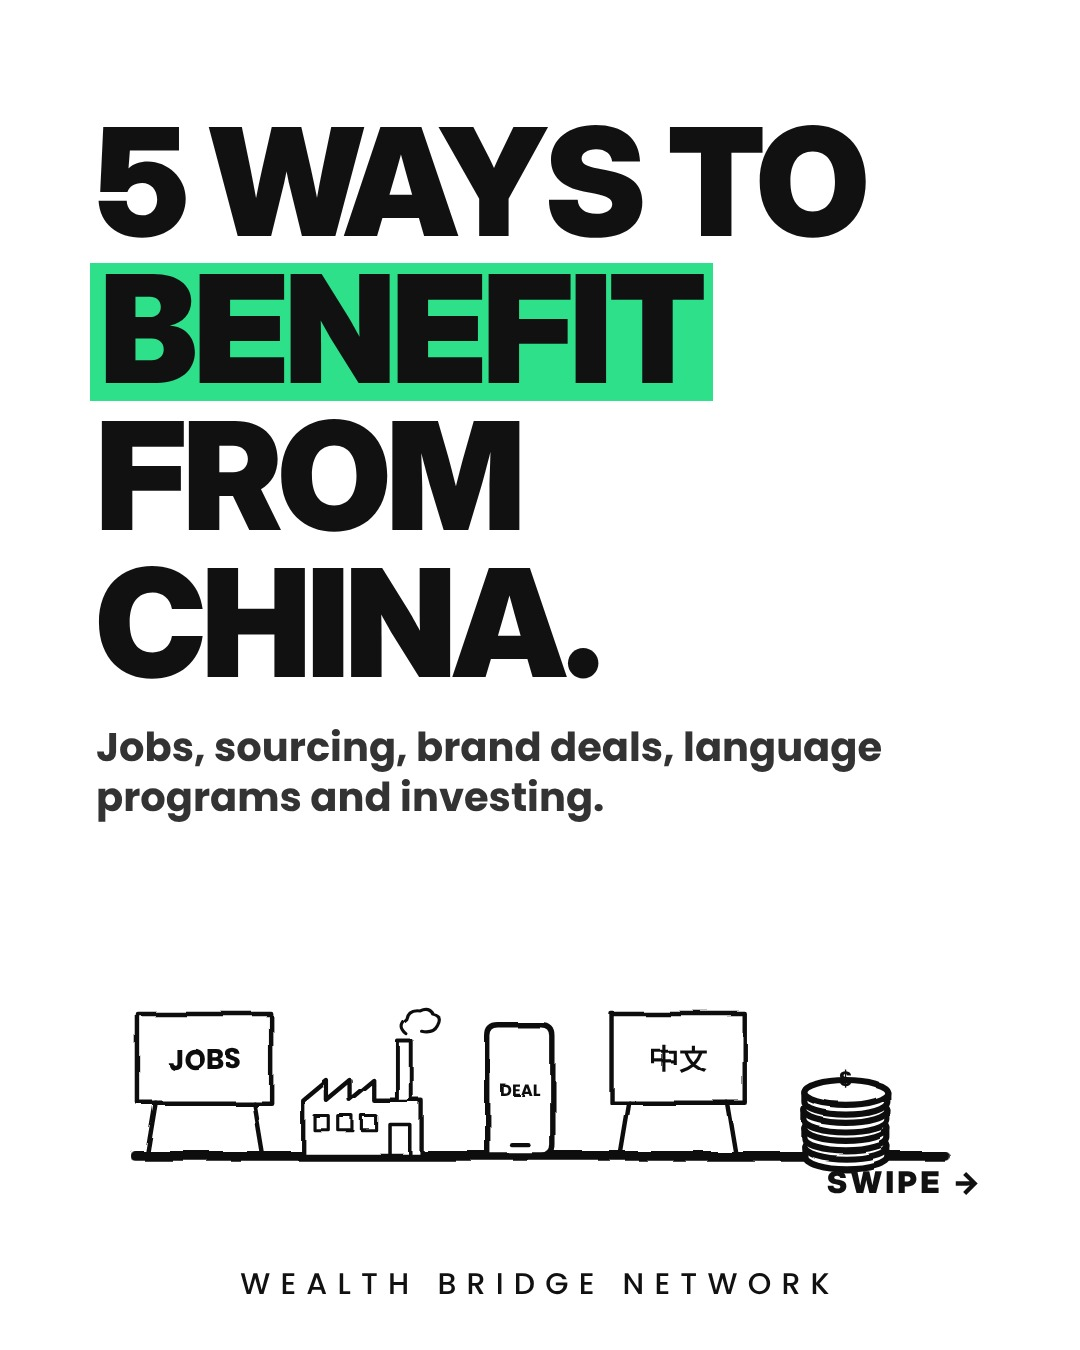
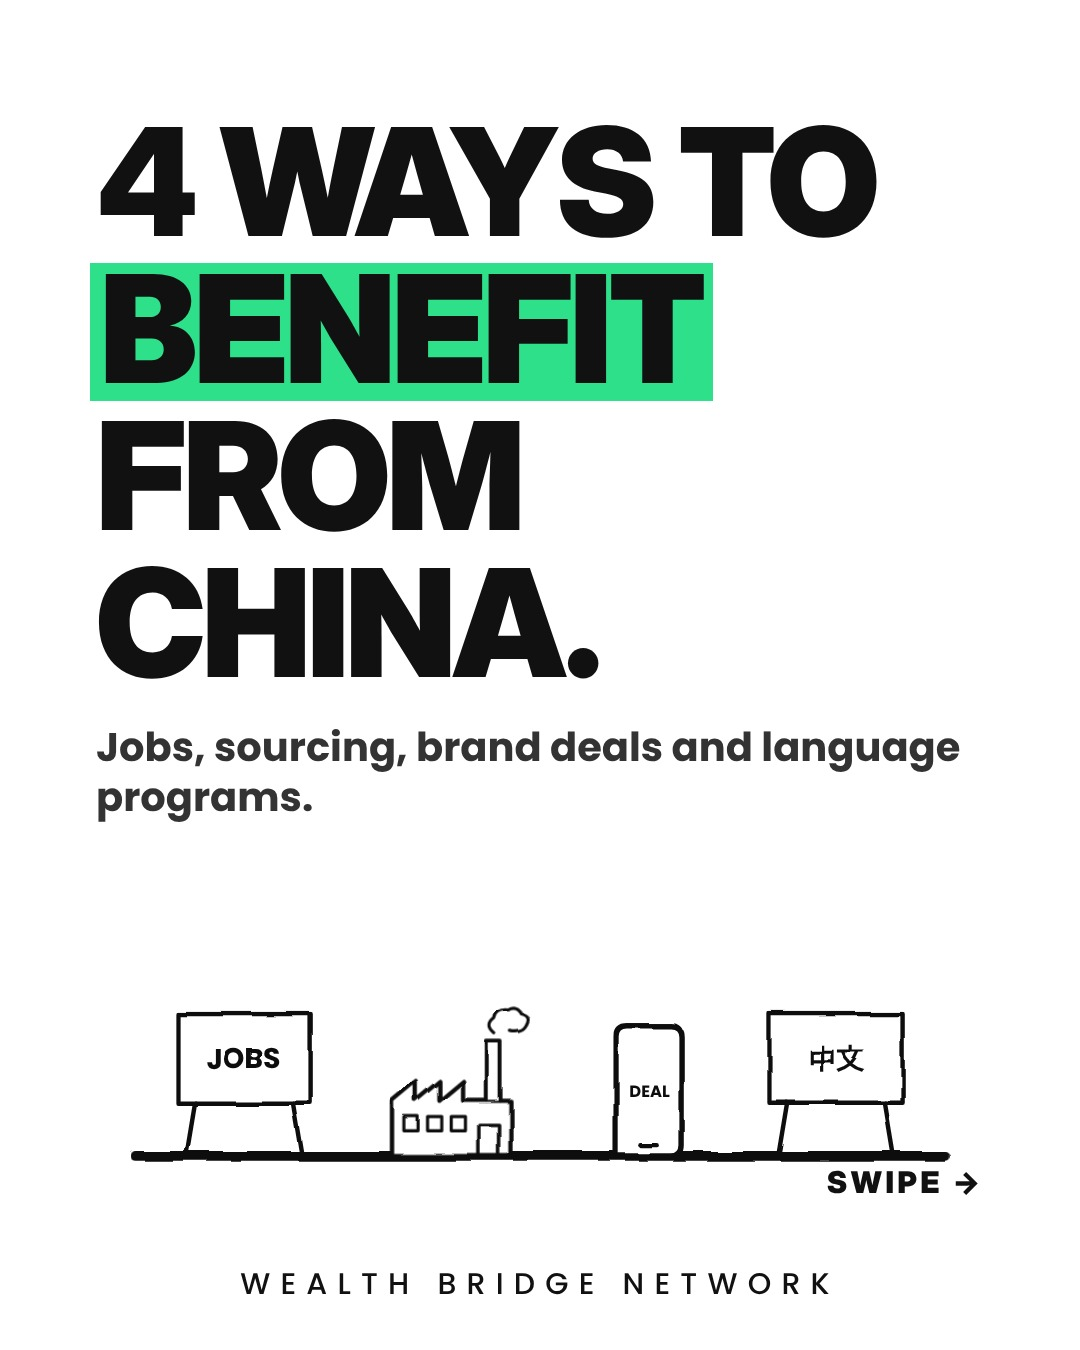
48-five-ways: remove Investing, now 4 ways (6 slides)
Claude-Session: https://claude.ai/code/session_01XWHiAw1FC92SEhPtnn4Xv2

diff --git a/content/five_ways.py b/content/five_ways.py
@@ -35,13 +35,13 @@ def topic(n, name, cells, src=""):
 
 
 POSTS = [
-dict(id="48-five-ways", pillar="Opportunities", title="5 ways to benefit from China",
+dict(id="48-five-ways", pillar="Opportunities", title="4 ways to benefit from China",
  caption="Building Bridges | Creating Access",
  slides=[
- dict(hook="5 ways to\n*benefit*\nfrom China.", hs=150, swipe=True,
-      kick="Jobs, sourcing, brand deals, language programs and investing.",
-      scene=ground(40, 860, 300) + board(110, 300, 0.45, "JOBS") + factory(270, 300, 0.4) + phone(430, 300, 0.55, "DEAL")
-      + board(590, 300, 0.45, "中文") + coins(760, 300, 0.7, 4), vh=320),
+ dict(hook="4 ways to\n*benefit*\nfrom China.", hs=150, swipe=True,
+      kick="Jobs, sourcing, brand deals and language programs.",
+      scene=ground(40, 860, 300) + board(150, 300, 0.45, "JOBS") + factory(360, 300, 0.4) + phone(560, 300, 0.55, "DEAL")
+      + board(750, 300, 0.45, "中文"), vh=320),
  topic(1, "Jobs", [
    (lambda x, y: board(x, y, 0.5, "TEFL"), "Teaching", ["Up to 35K+ RMB/mo", "at top int'l schools"]),
    (lambda x, y: laptop(x, y, 0.55, "SALES"), "Trade & marketing", ["Foreign trade sales,", "e-commerce, ads"]),
@@ -66,12 +66,6 @@ dict(id="48-five-ways", pillar="Opportunities", title="5 ways to benefit from Ch
    (lambda x, y: coins(x, y, 0.8, 4), "Stipend", ["2,500-3,000", "RMB a month"]),
    (lambda x, y: phone(x, y, 0.55, "APPLY"), "Apply", ["Usually Jan-Apr", "via an institute"]),
  ], CSC),
- topic(5, "Investing", [
-   (lambda x, y: laptop(x, y, 0.55, "HK"), "Stock Connect", ["Buy mainland shares", "through HK brokers"]),
-   (lambda x, y: phone(x, y, 0.55, "ETF"), "China ETFs", ["Simplest start, from", "your home broker"]),
-   (lambda x, y: factory(x, y, 0.45), "Start a company", ["A WFOE lets you own", "100% of a China firm"]),
-   (lambda x, y: tower(x, y, 0.36), "Property", ["Usually needs 1+ year", "living in China"]),
- ], INV),
  cta("Which one is for you?"),
 ]),
 ]
